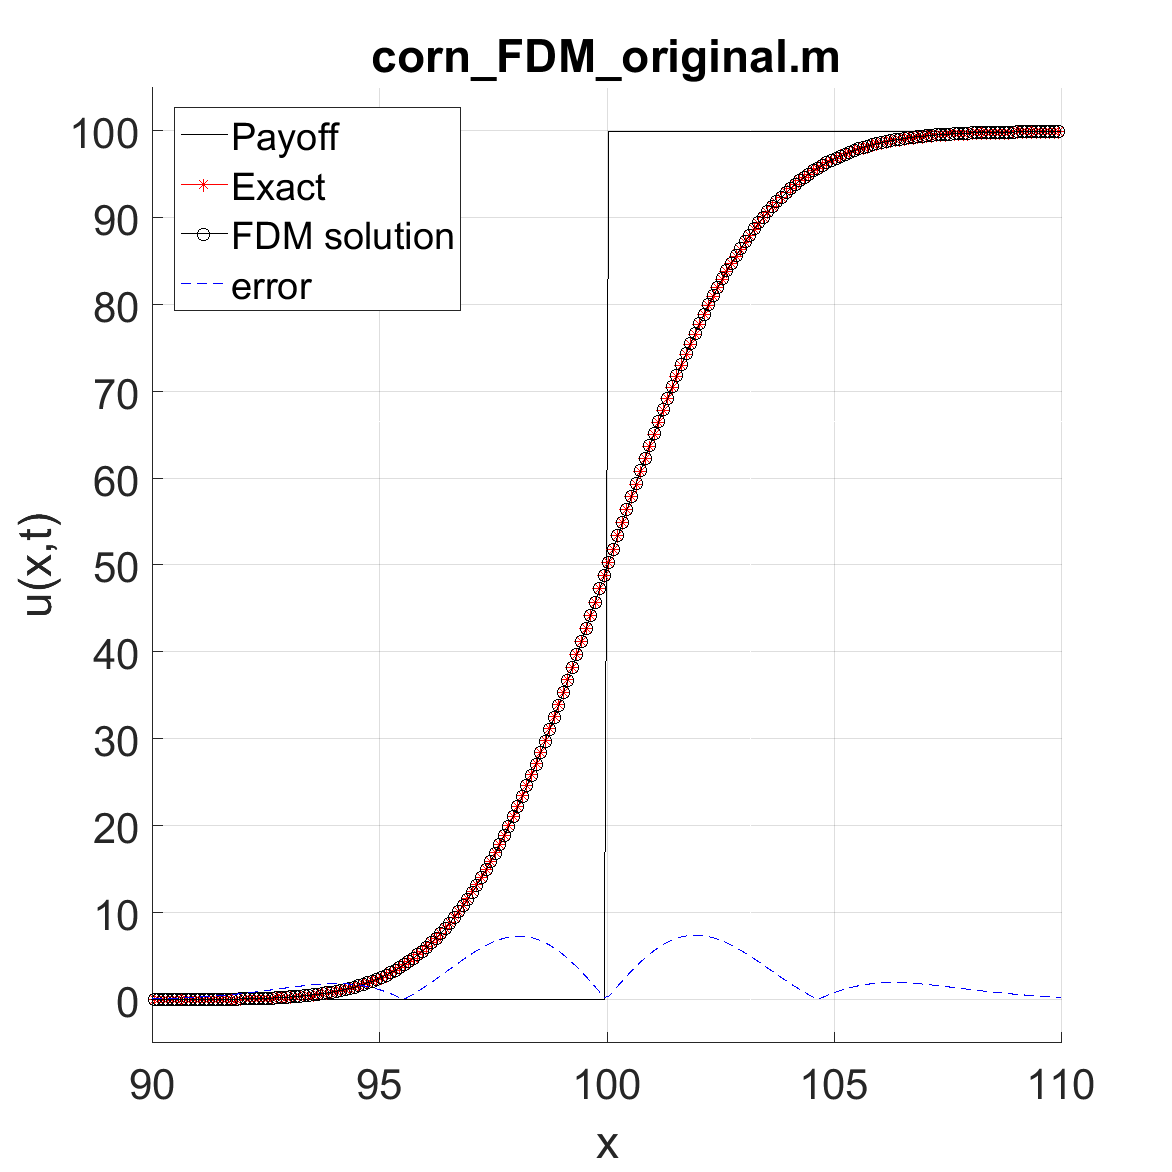
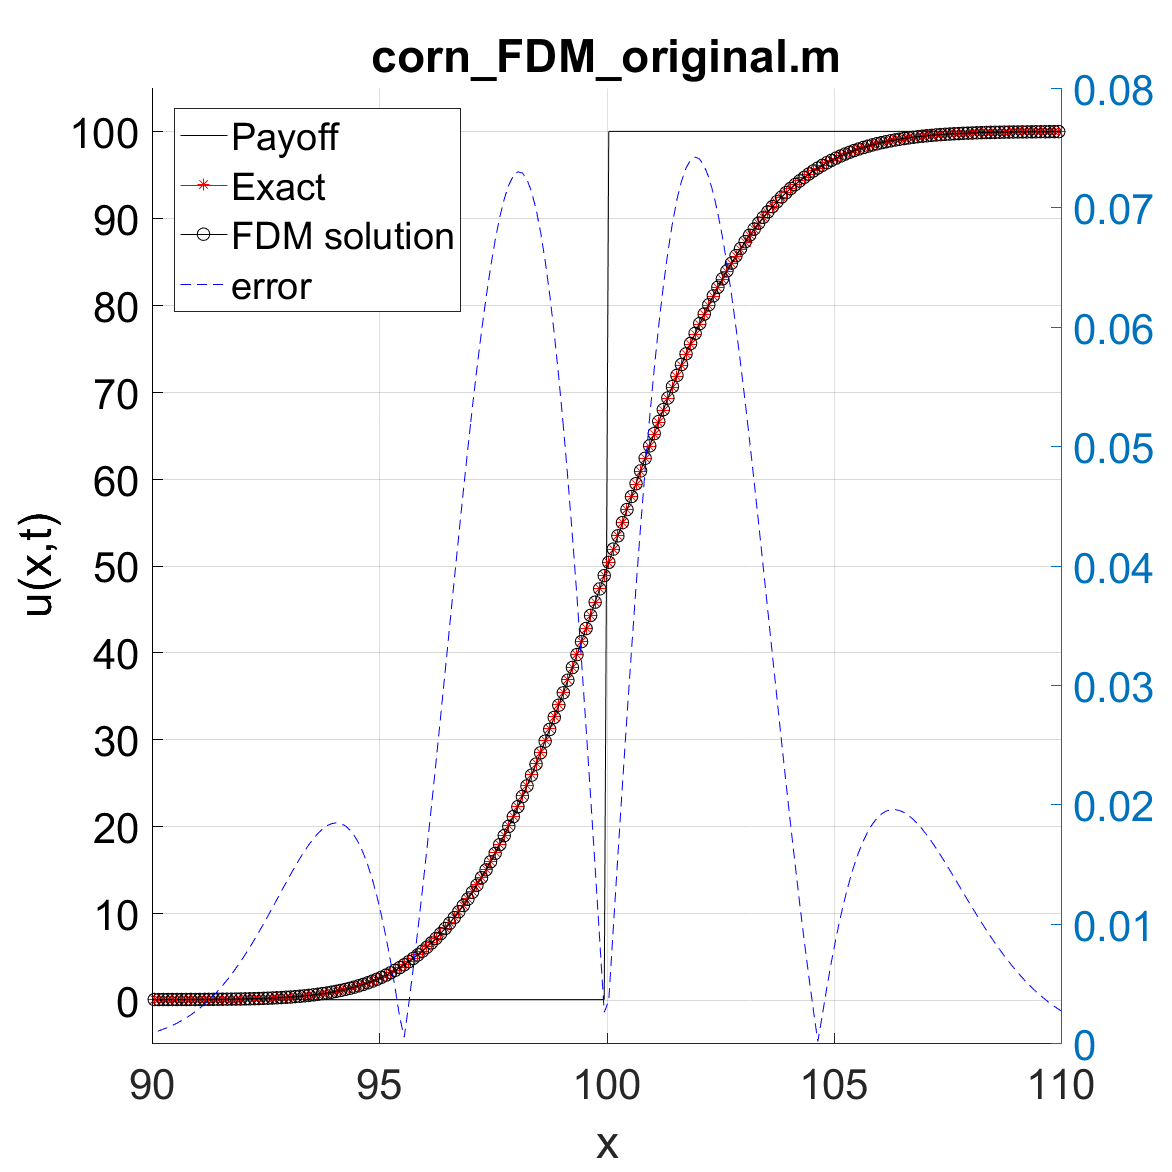
smoothing payoff FDM - MATLAB

diff --git a/code/MATLAB/corn_FDM_smooth_3.m b/code/MATLAB/corn_FDM_smooth_3.m
@@ -36,7 +36,7 @@ for i = 1:Nx
             + w*(0.5*(1-rev(i))^2));        
     elseif rev(i) >= 1 && rev(i) <= 2
         y3(i) = 1 - (1 - w) * ( 0.25*(2-rev(i))^4 - (1/3)*(2-rev(i))^3);
-    elseif rev(i) < -1
+    elseif rev(i) < -2
         y3(i) = 0;
     else
         y3(i) = 1;
@@ -83,13 +83,16 @@ fprintf('maxerr : %.8f\n\n', maxerr);
 FigHandle = figure(1);
 set(FigHandle, 'Position', [100, 100, 750, 750]);
 set(gca,'fontsize',20);
+xlabel('x'); ylabel('u(x,t)');
+axis([90 110 -5 105])
 hold on;
 grid on;
 plot(x,u(:,1)','k-')
 plot(x, exc,'r*-')
 plot(x,u(:,end)','ko-')
-plot(x,100*abs(u(:,end) - exc'), 'b--' )
-xlabel('x'); ylabel('u(x,t)')
-axis([90 110 -5 105])
+
+yyaxis right
+plot(x, abs(u(:,end) - exc'), 'b--' )
+
 title('corn\_FDM\_smooth\_3.m')
 legend('Payoff', 'Exact', 'FDM solution', 'error', 'location','northwest')

diff --git a/code/MATLAB/corn_FDM_smooth_1.m b/code/MATLAB/corn_FDM_smooth_1.m
@@ -72,14 +72,16 @@ fprintf('maxerr : %.8f\n\n', maxerr);
 FigHandle = figure(1);
 set(FigHandle, 'Position', [100, 100, 750, 750]);
 set(gca,'fontsize',20);
+xlabel('x'); ylabel('u(x,t)');
+axis([90 110 -5 105])
 hold on;
 grid on;
 plot(x,u(:,1)','k-')
 plot(x, exc,'r*-')
 plot(x,u(:,end)','ko-')
-plot(x,100*abs(u(:,end) - exc'), 'b--' )
-xlabel('x'); ylabel('u(x,t)')
-axis([90 110 -5 105])
+
+yyaxis right
+plot(x, abs(u(:,end) - exc'), 'b--' )
+
 title('corn\_FDM\_smooth\_1.m')
 legend('Payoff', 'Exact', 'FDM solution', 'error', 'location','northwest')
-

diff --git a/code/MATLAB/corn_FDM_original.m b/code/MATLAB/corn_FDM_original.m
@@ -56,14 +56,17 @@ fprintf('maxerr : %.8f\n\n', maxerr);
 FigHandle = figure(1);
 set(FigHandle, 'Position', [100, 100, 750, 750]);
 set(gca,'fontsize',20);
+xlabel('x'); ylabel('u(x,t)');
+axis([90 110 -5 105])
 hold on;
 grid on;
 plot(x,u(:,1)','k-')
 plot(x, exc,'r*-')
 plot(x,u(:,end)','ko-')
-plot(x,100*abs(u(:,end) - exc'), 'b--' )
-xlabel('x'); ylabel('u(x,t)')
-axis([90 110 -5 105])
+
+yyaxis right
+plot(x, abs(u(:,end) - exc'), 'b--' )
+
 title('corn\_FDM\_original.m')
 legend('Payoff', 'Exact', 'FDM solution', 'error', 'location','northwest')
 

diff --git a/code/MATLAB/corn_FDM_smooth_2.m b/code/MATLAB/corn_FDM_smooth_2.m
@@ -77,13 +77,16 @@ fprintf('maxerr : %.8f\n\n', maxerr);
 FigHandle = figure(1);
 set(FigHandle, 'Position', [100, 100, 750, 750]);
 set(gca,'fontsize',20);
+xlabel('x'); ylabel('u(x,t)');
+axis([90 110 -5 105])
 hold on;
 grid on;
 plot(x,u(:,1)','k-')
 plot(x, exc,'r*-')
 plot(x,u(:,end)','ko-')
-plot(x,100*abs(u(:,end) - exc'), 'b--' )
-xlabel('x'); ylabel('u(x,t)')
-axis([90 110 -5 105])
+
+yyaxis right
+plot(x, abs(u(:,end) - exc'), 'b--' )
+
 title('corn\_FDM\_smooth\_2.m')
 legend('Payoff', 'Exact', 'FDM solution', 'error', 'location','northwest')
